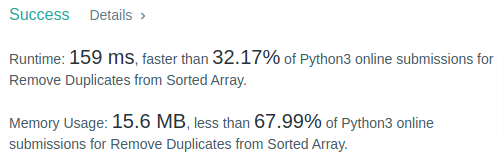
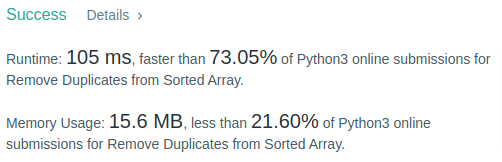
26.RemoveDuplicatesFromSortedArray

diff --git a/26.RemoveDuplicatesFromSortedArray/solution.py b/26.RemoveDuplicatesFromSortedArray/solution.py
@@ -1,28 +1,13 @@
 class Solution:
-    def removeDuplicates(self, nums: List[int]) -> int:
-        if len(nums) == 1:
-            return 1
-        i = 1
-        dupStart, dupEnd = None, None
-        while i < len(nums):
-            if nums[i] == nums[i-1]:
-                # Duplicate Found
-                if dupEnd is None:
-                    dupStart = dupEnd = i
-                else:
-                    dupEnd = i
-            else:
-                while i < len(nums)-1 and nums[i] == nums[i+1]:
-                    # Duplicate Found
-                    if not dupStart:
-                        dupStart = i
-                    dupEnd = i
-                    i += 1
-
-                if dupStart is not None:
-                    # Swap the current element with the element at index dupStart
-                    nums[dupStart], nums[i] = nums[i], nums[dupStart]
-                    dupStart += 1
-            i += 1
-
-        return dupStart if dupStart else len(nums)
+    def removeDuplicates(self, nums):
+        n = len(nums)
+        if n <= 1:
+            return n
+        j = 0
+        for i in range(n-1):
+            if nums[i] != nums[i+1]:
+                nums[j] = nums[i]
+                j += 1
+        nums[j] = nums[n-1]
+        # All the values after index j can be removed.
+        return j+1
